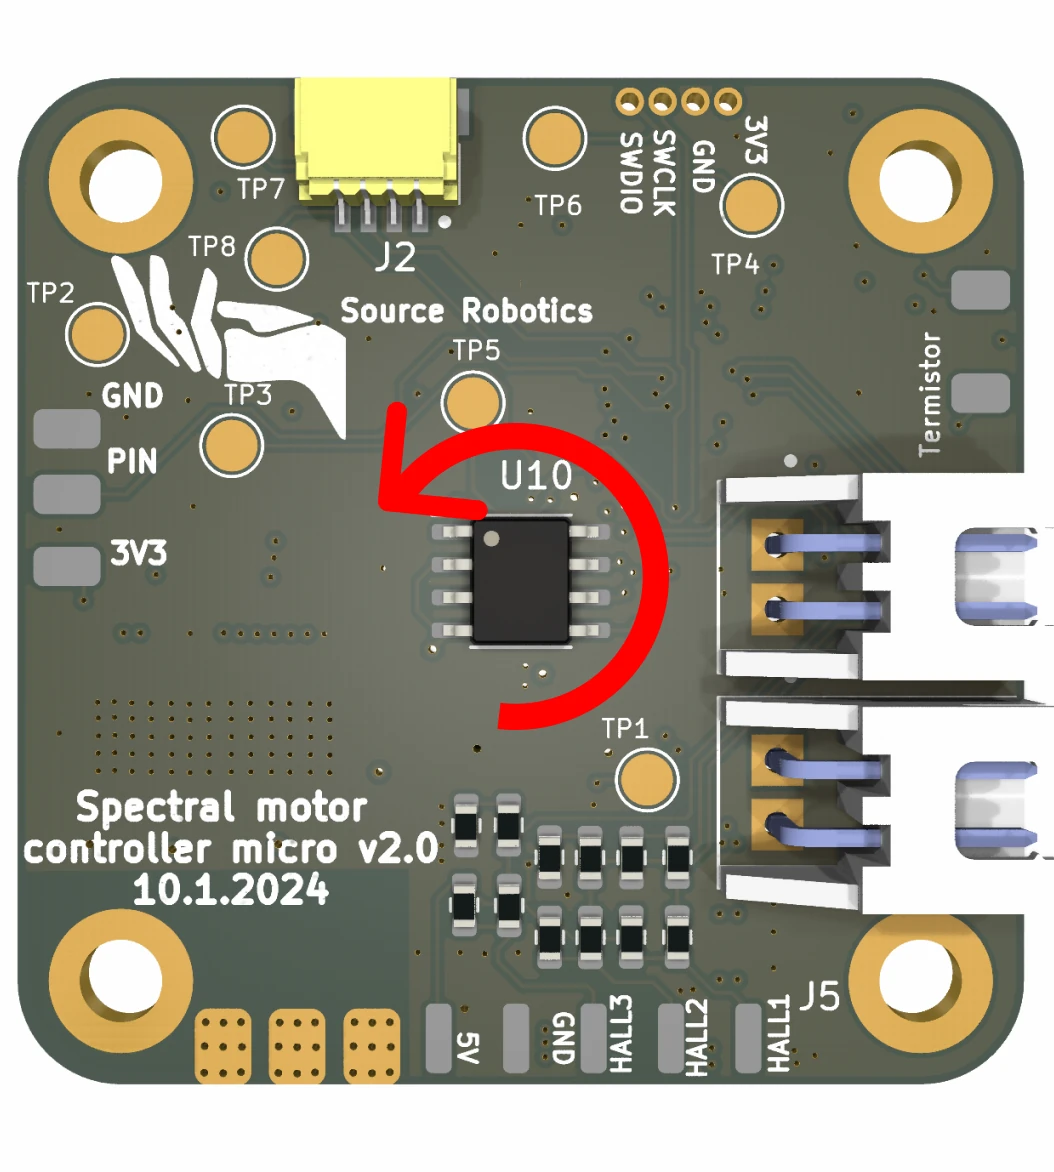
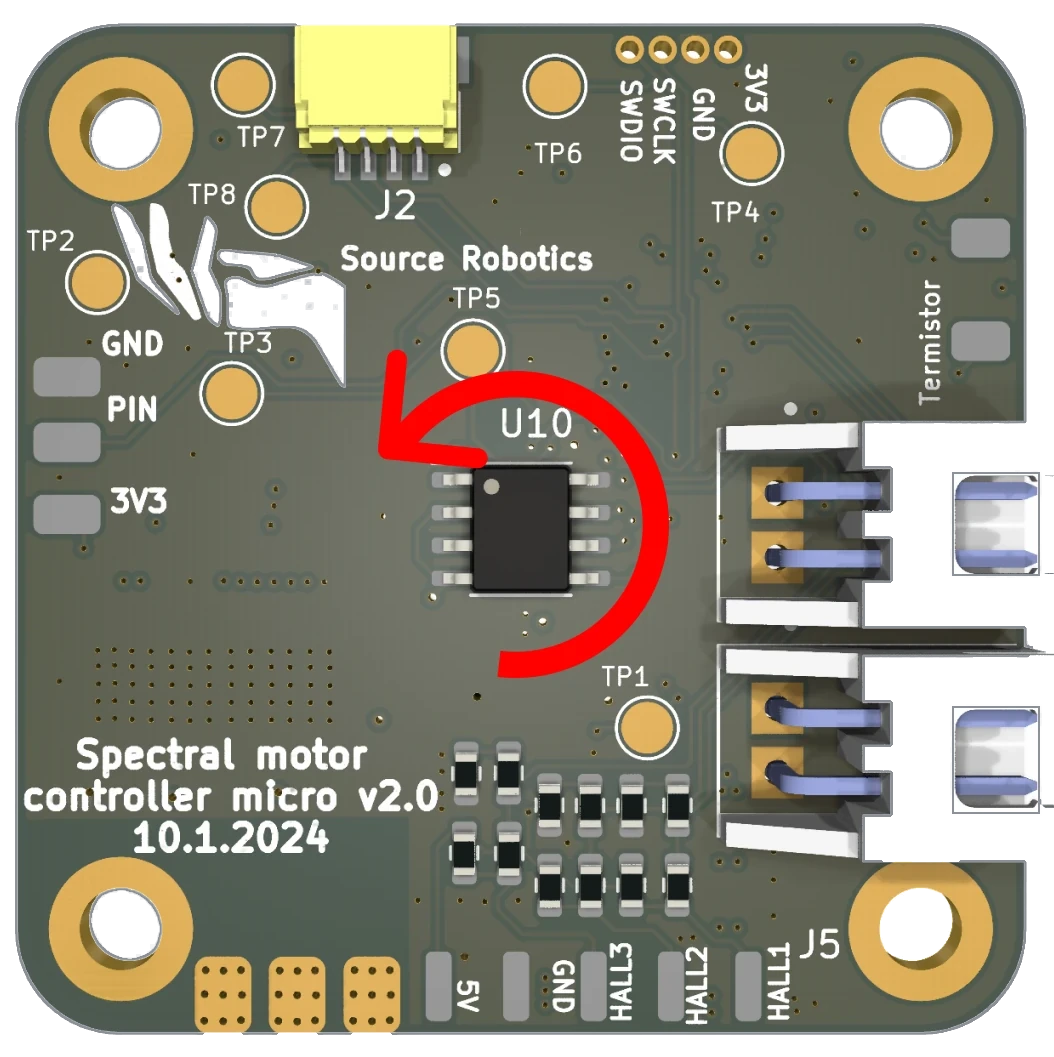
Figures as on STEPFOC: the board model in studio light, five pictures without their backgrounds
The owner's choices for STEPFOC (2026-11-11) on the sister site: the board's model rendered in studio light
(renders/spectral_board_studio, light and dark) in place of the old STEP picture, with STEPFOC's caption; the
termination switch, the thermal cement (the same picture as STEPFOC's, its cut-out reused), the positive rotation,
the JTAG pads and the UART connector cut out of their backgrounds, light and dark, loose labels light on the dark
page, the white connector housings at the board's edge kept. The connector overview stays on white, as STEPFOC's
went back. The old bldc_step, FLASHING2-Photoroom and "UART connection" files go.

diff --git a/docs/06-operation/modes.md b/docs/06-operation/modes.md
@@ -86,7 +86,8 @@ the torque as Kt times the current.
 
 ## Positive rotation
 
-![Looking at the encoder side of the board, the side that faces the magnet, positive rotation is counter-clockwise. A positive current turns the motor that way, a positive speed too, and the position grows.](../assets/Positive_rotation.webp){ width="520" }
+![Looking at the encoder side of the board, the side that faces the magnet, positive rotation is counter-clockwise. A positive current turns the motor that way, a positive speed too, and the position grows.](../assets/Positive_rotation.webp#only-light){ width="520" }
+![Looking at the encoder side of the board, the side that faces the magnet, positive rotation is counter-clockwise. A positive current turns the motor that way, a positive speed too, and the position grows.](../assets/Positive_rotation_dark.webp#only-dark){ width="520" }
 
 The direction is tied to the encoder, not to the wiring: since firmware 105 calibration compensates the order of
 the phases, so the motor turns the same way whichever wire went to which terminal.

diff --git a/docs/03-technical-data/dimensions.md b/docs/03-technical-data/dimensions.md
@@ -15,7 +15,8 @@ shaft's axis.
 ![Board dimensions and hole pattern.](../assets/micro_dimensions.webp#only-light){ width="600" }
 ![Board dimensions and hole pattern.](../assets/micro_dimensions_dark.webp#only-dark){ width="600" }
 
-![The STEP model.](../assets/bldc_step.webp){ width="520" }
+![The board's model, from its STEP file: the PCB and everything mounted on it.](../assets/renders/spectral_board_studio.webp#only-light){ width="520" }
+![The board's model, from its STEP file: the PCB and everything mounted on it.](../assets/renders/spectral_board_studio_dark.webp#only-dark){ width="520" }
 
 The STEP files of the board and of an example mounting bracket are in the firmware repository, in
 [STEP files](https://github.com/Source-Robotics/Spectral-Micro-BLDC-controller/tree/main/STEP%20files):

diff --git a/docs/quick-start/2-connect.md b/docs/quick-start/2-connect.md
@@ -7,7 +7,8 @@ The supply powers the motor, the serial adapter connects the PC.
 1. Connect the supply to a power connector: **DC+ to positive, DC− to negative**. Check twice.
 2. Connect the serial adapter to the UART connector with the UART cable: TX to RX, RX to TX. 3.3 V only.
 
-    ![The UART connector. TX of the driver goes to RX of the adapter and RX to TX.](../assets/UART%20connection.webp){ width="700" }
+    ![The UART connector. TX of the driver goes to RX of the adapter and RX to TX.](../assets/UART_connection.webp#only-light){ width="700" }
+    ![The UART connector. TX of the driver goes to RX of the adapter and RX to TX.](../assets/UART_connection_dark.webp#only-dark){ width="700" }
 
 3. Power on.
 

diff --git a/docs/04-mounting/thermistor.md b/docs/04-mounting/thermistor.md
@@ -21,7 +21,8 @@ bottom and can be reached through one of the mounting holes or past the edge of 
 Thermal cement holds the bead in place and conducts the heat; keep the leads clear of the rotor.
 
 <figure markdown="span">
-  ![Thermal cement](../assets/Thermal_cement.webp){ width="220" }
+  ![Thermal cement](../assets/Thermal_cement.webp#only-light){ width="220" }
+  ![Thermal cement](../assets/Thermal_cement_dark.webp#only-dark){ width="220" }
   <figcaption>Thermal cement: it sets hard and conducts heat. Thermal paste stays soft and lets the bead move, ordinary glue insulates it. <a href="https://s.click.aliexpress.com/e/_c3dBOwTD" target="_blank" rel="noopener">Where to buy it</a>.</figcaption>
 </figure>
 

diff --git a/docs/05-setup/terminal.md b/docs/05-setup/terminal.md
@@ -9,7 +9,8 @@ exactly as it prints them, which is useful when something does not work.
 The driver talks on its UART connector at 256000 baud, 8N1, 3.3 V. Any terminal that sends a line ending in
 CR+LF works.
 
-![The UART connector. TX of the driver goes to RX of the adapter and RX to TX.](../assets/UART%20connection.webp){ width="700" }
+![The UART connector. TX of the driver goes to RX of the adapter and RX to TX.](../assets/UART_connection.webp#only-light){ width="700" }
+![The UART connector. TX of the driver goes to RX of the adapter and RX to TX.](../assets/UART_connection_dark.webp#only-dark){ width="700" }
 
 ## Connecting
 

diff --git a/docs/07-firmware/bootloader.md b/docs/07-firmware/bootloader.md
@@ -34,7 +34,8 @@ update goes over UART or CAN.
 === "macOS"
     STM32CubeProgrammer; the ST-LINK Utility runs on Windows only. The adapter needs no driver.
 
-![The JTAG pads. The adapter is pressed onto them; a little pressure makes the contact.](../assets/FLASHING2-Photoroom.webp){ width="520" }
+![The JTAG pads. The adapter is pressed onto them; a little pressure makes the contact.](../assets/FLASHING2.webp#only-light){ width="520" }
+![The JTAG pads. The adapter is pressed onto them; a little pressure makes the contact.](../assets/FLASHING2_dark.webp#only-dark){ width="520" }
 
 ## Steps
 

diff --git a/docs/04-mounting/power-and-can.md b/docs/04-mounting/power-and-can.md
@@ -43,4 +43,5 @@ The cables from the shop are made this way: [CAN cable](https://source-robotics.
 - A PC joins the bus with the [CANvas adapter](https://source-robotics.com/products/canvas-usb-to-can-adapter),
   which has its own termination.
 
-![The termination switch, ON for the first and the last node.](../assets/TERM.webp){ width="520" }
+![The termination switch, ON for the first and the last node.](../assets/TERM.webp#only-light){ width="520" }
+![The termination switch, ON for the first and the last node.](../assets/TERM_dark.webp#only-dark){ width="520" }
